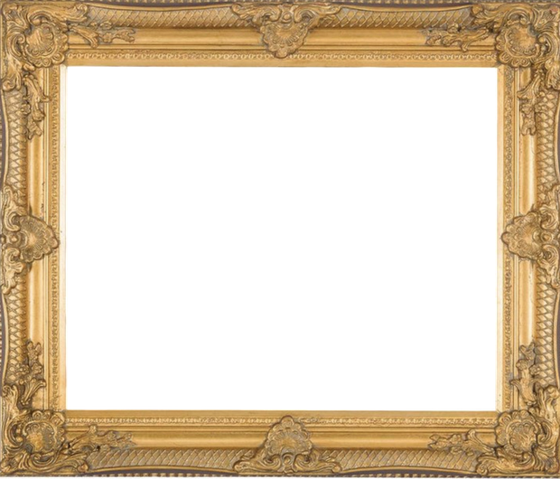
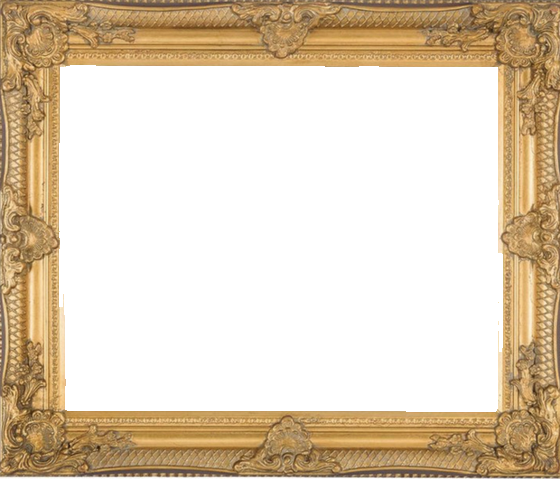
Add files via upload

diff --git a/app.js b/app.js
@@ -40,7 +40,7 @@ const NAV = [
 let store;
 const S = {
   who: null, tab: 'start', sub: null, ready: false,
-  d: { events: [], todos: [], shop: [], expenses: [], fixed: [], sport: [], recipes: [], dates: [], trips: [], messages: [], reminders: [], diary: [], notes: [], wishes: [], pexpenses: [] },
+  d: { events: [], todos: [], shop: [], expenses: [], fixed: [], sport: [], recipes: [], dates: [], trips: [], messages: [], reminders: [], photos: [], diary: [], notes: [], wishes: [], pexpenses: [] },
   settings: {}, photo: null,
   ui: { calView: 'month', calOff: 0, filter: 'all', listTab: 'todo', mOff: 0, spEdit: false, doorOpen: false, msgOpen: false, recipe: null, dateIdea: null, trip: null },
   topImg: TOPS[Math.floor(Math.random() * TOPS.length)]
@@ -67,7 +67,7 @@ function startSession(who) {
   applyAccent();
   if (!S.ready) {
     S.ready = true;
-    ['events', 'todos', 'shop', 'expenses', 'fixed', 'sport', 'recipes', 'dates', 'trips', 'messages', 'reminders'].forEach(n => store.watch(n, (arr) => { S.d[n] = arr; render(); }));
+    ['events', 'todos', 'shop', 'expenses', 'fixed', 'sport', 'recipes', 'dates', 'trips', 'messages', 'reminders', 'photos'].forEach(n => store.watch(n, (arr) => { S.d[n] = arr; render(); }));
     ['diary', 'notes', 'wishes', 'pexpenses'].forEach(n => store.watch(n, (arr) => { S.d[n] = arr; render(); }, { priv: true }));
     store.watchDoc('settings', (doc) => { S.settings = doc || {}; render(); startFx(); });
     store.watchDoc('photo', (doc) => { S.photo = doc; render(); });
@@ -250,8 +250,8 @@ function viewStart() {
   h += '<div class="card"><div style="font-size:15px;font-weight:700;margin-bottom:4px">Als Nächstes</div>' +
     (nx.length ? nx.map(e => '<div class="row" style="padding:8px 0"><div class="bar" style="background:' + e.bar + '"></div><div style="flex:1"><div class="t15">' + esc(e.t) + '</div><div class="small muted">' + esc(e.when) + '</div></div></div>').join('') : '<div class="empty">Nichts geplant – genießt den Tag.</div>') + '</div>';
   // Foto der Woche
-  const ph = S.photo && S.photo.data;
-  h += '<button class="frame" data-a="photo" aria-label="Foto der Woche ändern"><span class="inner">' + (ph ? '<img src="' + ph + '" alt="Foto der Woche">' :
+  const pl = photoList();
+  h += '<button class="frame" data-a="photo" aria-label="Fotos der Woche verwalten"><span class="inner">' + (pl.length ? pl.map((p, i) => '<img class="sl' + (i === (S.slide % pl.length) ? ' on' : '') + '" src="' + p.data + '" alt="Foto der Woche" style="' + photoStyle(p) + '">').join('') :
     ICON.photo + '<span style="font-size:14px;font-weight:700;color:#4A3D39">Foto der Woche</span><span style="font-size:11px;color:#6B5A55">Tippen zum Hochladen</span>') + '</span><img class="f" src="' + A('rahmen.png') + '" alt=""></button>';
   h += '<div class="since">' + esc(L.sinceText(S.settings.together, d)) + '</div></div>';
   return h;
@@ -513,6 +513,36 @@ const diaryLines = (e) => [['Dankbar', e.g], ['Highlight', e.h], ['Lowlight', e.
 
 // ---------------------------------------------------------------- Sheet (Formulare)
 let sheetSave = null, sheetDel = null;
+function photoList() {
+  const l = (S.d.photos || []).filter(p => p.data).sort((a, b) => (a.at || 0) - (b.at || 0));
+  if (!l.length && S.photo && S.photo.data) return [Object.assign({ id: '__legacy' }, S.photo)];
+  return l;
+}
+function photoStyle(p) {
+  const z = Math.max(1, Math.min(3, +p.zoom || 1)), x = isFinite(+p.x) ? +p.x : 50, y = isFinite(+p.y) ? +p.y : 50;
+  return 'object-position:' + x + '% ' + y + '%;transform:scale(' + z + ');transform-origin:' + x + '% ' + y + '%';
+}
+S.slide = 0;
+setInterval(() => {
+  const imgs = document.querySelectorAll('.frame .inner img.sl'); if (imgs.length < 2) return;
+  S.slide = (S.slide + 1) % imgs.length; imgs.forEach((im, i) => im.classList.toggle('on', i === S.slide));
+}, 6000);
+function openPhotos() {
+  const pl = photoList().filter(p => p.id !== '__legacy');
+  const rows = pl.map(p => '<div class="card stack" data-pid="' + p.id + '"><div class="ph-prev"><img src="' + p.data + '" alt="" style="' + photoStyle(p) + '"></div>' +
+    '<label class="field">Zoom<input type="range" min="1" max="3" step="0.05" name="zoom_' + p.id + '" value="' + (p.zoom || 1) + '"></label>' +
+    '<label class="field">Links ↔ Rechts<input type="range" min="0" max="100" step="1" name="x_' + p.id + '" value="' + (isFinite(+p.x) ? p.x : 50) + '"></label>' +
+    '<label class="field">Oben ↕ Unten<input type="range" min="0" max="100" step="1" name="y_' + p.id + '" value="' + (isFinite(+p.y) ? p.y : 50) + '"></label>' +
+    '<button type="button" class="btn ghost small" style="color:#A32D2D" data-a="photoDel" data-id="' + p.id + '">Foto entfernen</button></div>').join('');
+  openSheet('Fotos der Woche', '<div class="small muted">Mehrere Fotos laufen als Diashow (alle 6 Sekunden). Mit Zoom und den Reglern legst du den Ausschnitt fest.</div>' +
+    '<button type="button" class="btn" data-a="photoAdd">+ Fotos hinzufügen</button>' + (rows || '<div class="small muted">Noch keine Fotos.</div>'),
+    async (f) => { for (const p of pl) { const z = +f['zoom_' + p.id], x = +f['x_' + p.id], y = +f['y_' + p.id]; if (z !== (+p.zoom || 1) || x !== (isFinite(+p.x) ? +p.x : 50) || y !== (isFinite(+p.y) ? +p.y : 50)) await store.update('photos', p.id, { zoom: z, x, y }); } });
+  document.querySelectorAll('#sheet [data-pid]').forEach(card => {
+    const img = card.querySelector('.ph-prev img'), id = card.dataset.pid;
+    const upd = () => { img.setAttribute('style', photoStyle({ zoom: card.querySelector('[name=zoom_' + id + ']').value, x: card.querySelector('[name=x_' + id + ']').value, y: card.querySelector('[name=y_' + id + ']').value })); };
+    card.querySelectorAll('input[type=range]').forEach(r => r.addEventListener('input', upd));
+  });
+}
 function openSheet(title, fields, onSave, onDel) {
   sheetSave = onSave; sheetDel = onDel || null;
   const el = $('#sheet'); el.className = 'show';
@@ -544,7 +574,9 @@ const ACT = {
   react(v, el) { store.update('messages', el.dataset.id, { reaction: v }); },
   msgOpen() { set('msgOpen', true); setTimeout(() => { const t = document.querySelector('[data-keep="msg"]'); if (t) t.focus(); }, 50); },
   msgClose() { set('msgOpen', false); },
-  photo() { $('#photoInput').click(); },
+  photo() { openPhotos(); },
+  photoAdd() { $('#photoInput').click(); },
+  async photoDel(id) { if (!confirm('Dieses Foto entfernen?')) return; await store.remove('photos', id); closeSheet(); setTimeout(openPhotos, 300); },
   calNav(v) { set('calOff', S.ui.calOff + Number(v)); },
   calView(v) { set({ calView: v, calOff: 0 }); },
   calFilter(v) { set('filter', v); },
@@ -676,18 +708,23 @@ document.addEventListener('change', (e) => {
 
 // Foto der Woche: verkleinern und als JPEG-Text speichern (≤ 900 KB)
 $('#photoInput').addEventListener('change', async (e) => {
-  const file = e.target.files && e.target.files[0]; e.target.value = ''; if (!file) return;
-  try {
-    const img = await new Promise((res, rej) => { const i = new Image(); i.onload = () => res(i); i.onerror = rej; i.src = URL.createObjectURL(file); });
-    let max = 1200, q = 0.8, data = '';
-    for (let k = 0; k < 8; k++) {
-      const sc = Math.min(1, max / Math.max(img.width, img.height)), c = document.createElement('canvas');
-      c.width = Math.round(img.width * sc); c.height = Math.round(img.height * sc); c.getContext('2d').drawImage(img, 0, 0, c.width, c.height);
-      data = c.toDataURL('image/jpeg', q); if (data.length <= 900000) break;
-      q = Math.max(0.5, q - 0.1); if (q === 0.5) max = Math.round(max * 0.8);
-    }
-    await store.setDoc('photo', { data, by: S.who, at: Date.now() });
-  } catch (x) { alert('Das Foto konnte nicht geladen werden.'); }
+  const files = Array.from(e.target.files || []); e.target.value = ''; if (!files.length) return;
+  let ok = 0;
+  for (const file of files) {
+    try {
+      const img = await new Promise((res, rej) => { const i = new Image(); i.onload = () => res(i); i.onerror = rej; i.src = URL.createObjectURL(file); });
+      let max = 1200, q = 0.8, data = '';
+      for (let k = 0; k < 8; k++) {
+        const sc = Math.min(1, max / Math.max(img.width, img.height)), c = document.createElement('canvas');
+        c.width = Math.round(img.width * sc); c.height = Math.round(img.height * sc); c.getContext('2d').drawImage(img, 0, 0, c.width, c.height);
+        data = c.toDataURL('image/jpeg', q); if (data.length <= 900000) break;
+        q = Math.max(0.5, q - 0.1); if (q === 0.5) max = Math.round(max * 0.8);
+      }
+      await store.add('photos', { data, by: S.who, at: Date.now(), zoom: 1, x: 50, y: 50 }); ok++;
+    } catch (x) { console.warn(x); }
+  }
+  if (!ok) alert('Die Fotos konnten nicht geladen werden.');
+  closeSheet(); setTimeout(openPhotos, 400);
 });
 
 document.addEventListener('visibilitychange', () => { if (!document.hidden) render(); });

diff --git a/app.css b/app.css
@@ -5,7 +5,7 @@ body{overscroll-behavior:none}
 button{font-family:inherit;cursor:pointer;color:inherit}
 input,textarea,select{font-family:inherit;font-size:16px;color:var(--ink)}
 #app{position:relative;display:flex;flex-direction:column;height:100vh;height:100dvh;max-width:560px;margin:0 auto;background:var(--cream)}
-#top{flex:none;padding:calc(env(safe-area-inset-top) + 14px) 20px 10px;display:flex;align-items:center;justify-content:space-between;gap:12px}
+#top{flex:none;background:var(--cream,#FBF7F1);position:relative;z-index:5;padding:calc(env(safe-area-inset-top) + 26px) 20px 12px;display:flex;align-items:center;justify-content:space-between;gap:12px}
 .brand{display:flex;align-items:center;gap:8px;font-size:22px;font-weight:800;letter-spacing:-.5px}
 .seg-pill{display:flex;background:#F1EAE0;border-radius:999px;padding:3px}
 .seg-pill button{border:none;border-radius:999px;padding:8px 12px;min-height:36px;font-size:13px;font-weight:700;background:transparent;color:var(--muted)}
@@ -65,8 +65,14 @@ input,textarea,select{font-family:inherit;font-size:16px;color:var(--ink)}
 .tile{background:#fff;border:1px solid var(--line);border-radius:16px;padding:0;overflow:hidden;display:flex;flex-direction:column;align-items:stretch;font-size:12px;font-weight:700;letter-spacing:-.2px;line-height:30px;white-space:nowrap;text-align:center}
 .tile img{display:block;width:100%;aspect-ratio:1/1;object-fit:cover}
 .frame{position:relative;display:block;width:100%;aspect-ratio:1660/1420;border:none;padding:0;background:#B8923F;border-radius:16px;overflow:hidden;box-shadow:0 3px 8px rgba(42,36,34,.25)}
-.frame .inner{position:absolute;left:11.2%;top:13.3%;width:77.6%;height:72.6%;display:flex;flex-direction:column;align-items:center;justify-content:center;gap:4px;background:#EFDCD6;overflow:hidden}
+.frame .inner{position:absolute;left:9%;top:12%;width:82%;height:75.5%;display:flex;flex-direction:column;align-items:center;justify-content:center;gap:4px;background:#EFDCD6;overflow:hidden}
 .frame .inner img{width:100%;height:100%;object-fit:cover}
+.frame .inner img.sl{position:absolute;left:0;top:0;opacity:0;transition:opacity 1.2s ease}
+.frame .inner img.sl.on{opacity:1}
+.ph-prev{position:relative;width:100%;aspect-ratio:1.25;overflow:hidden;border-radius:8px;background:#EFDCD6}
+.ph-prev img{display:block;width:100%;height:100%;object-fit:cover}
+.field input[type=range]{min-height:32px;padding:0;border:none;background:none;accent-color:var(--acc,#C4243B)}
+.field input[type=date]{-webkit-appearance:none;appearance:none;display:block;min-width:0;max-width:100%;width:100%;text-align:left}
 .frame>img.f{position:absolute;left:-1.5%;top:-1.5%;width:103%;height:103%;pointer-events:none}
 .since{text-align:center;font-size:13px;color:var(--muted);padding:2px 0 4px}
 /* Advent */

diff --git a/sw.js b/sw.js
@@ -1,6 +1,6 @@
 // Tandem Service Worker – speichert die App für die Offline-Nutzung.
 // Nach Änderungen an der App die Versionsnummer erhöhen.
-const VERSION = 'tandem-v3';
+const VERSION = 'tandem-v4';
 const FILES = [
   './',
   'advent.jpg',
